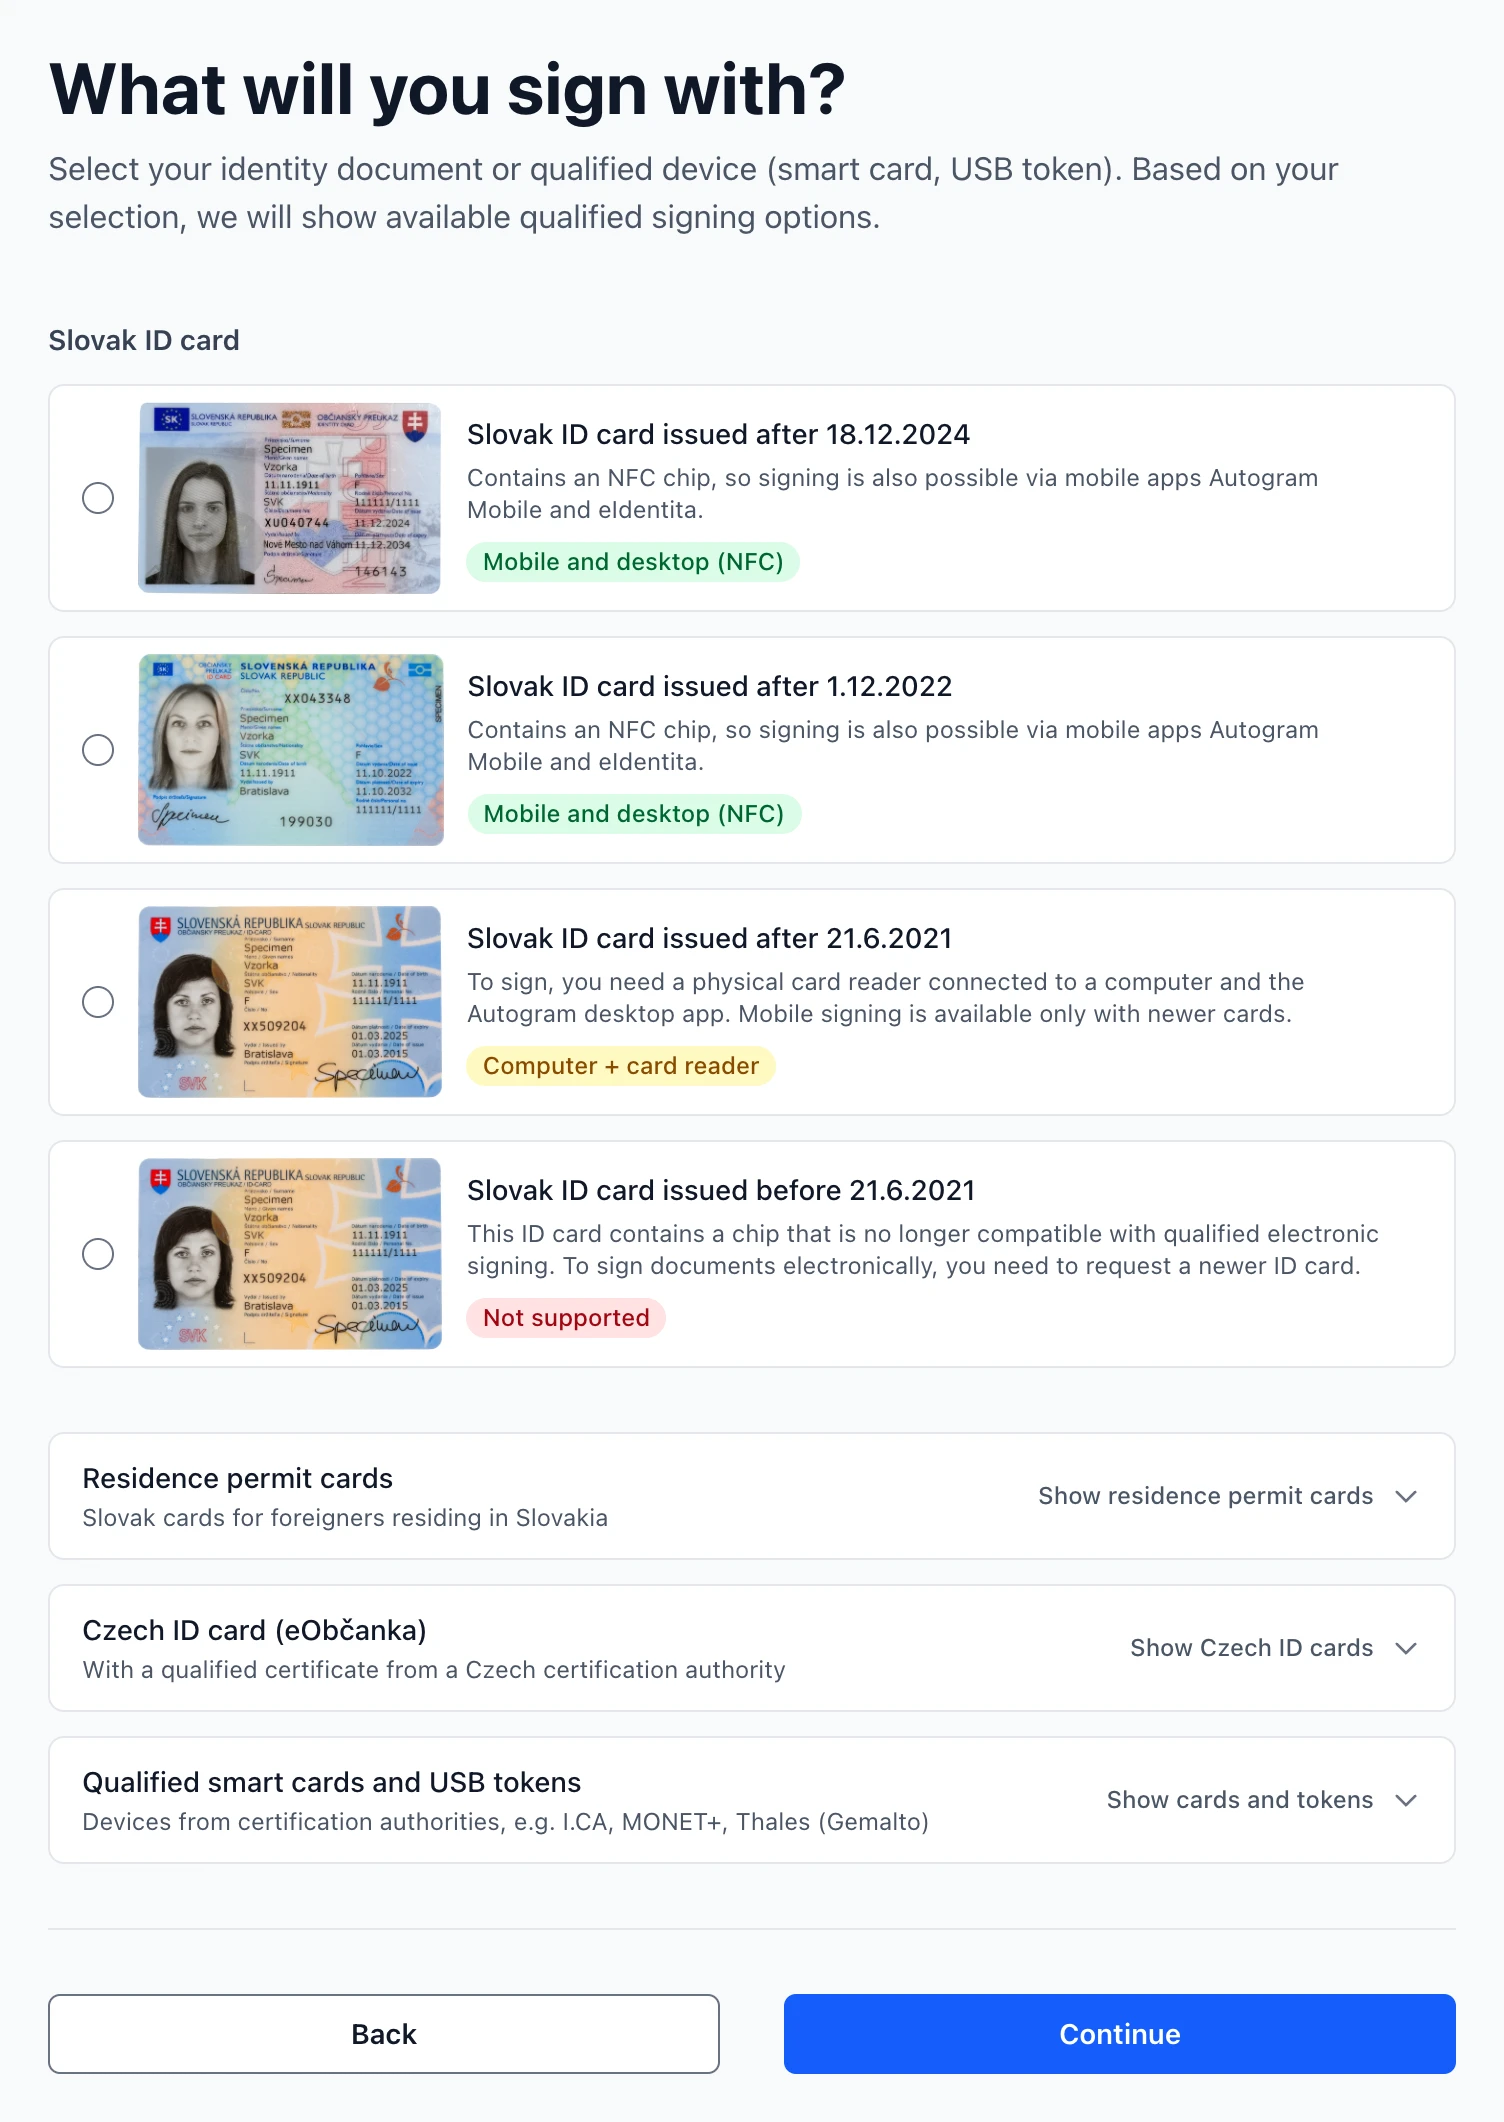
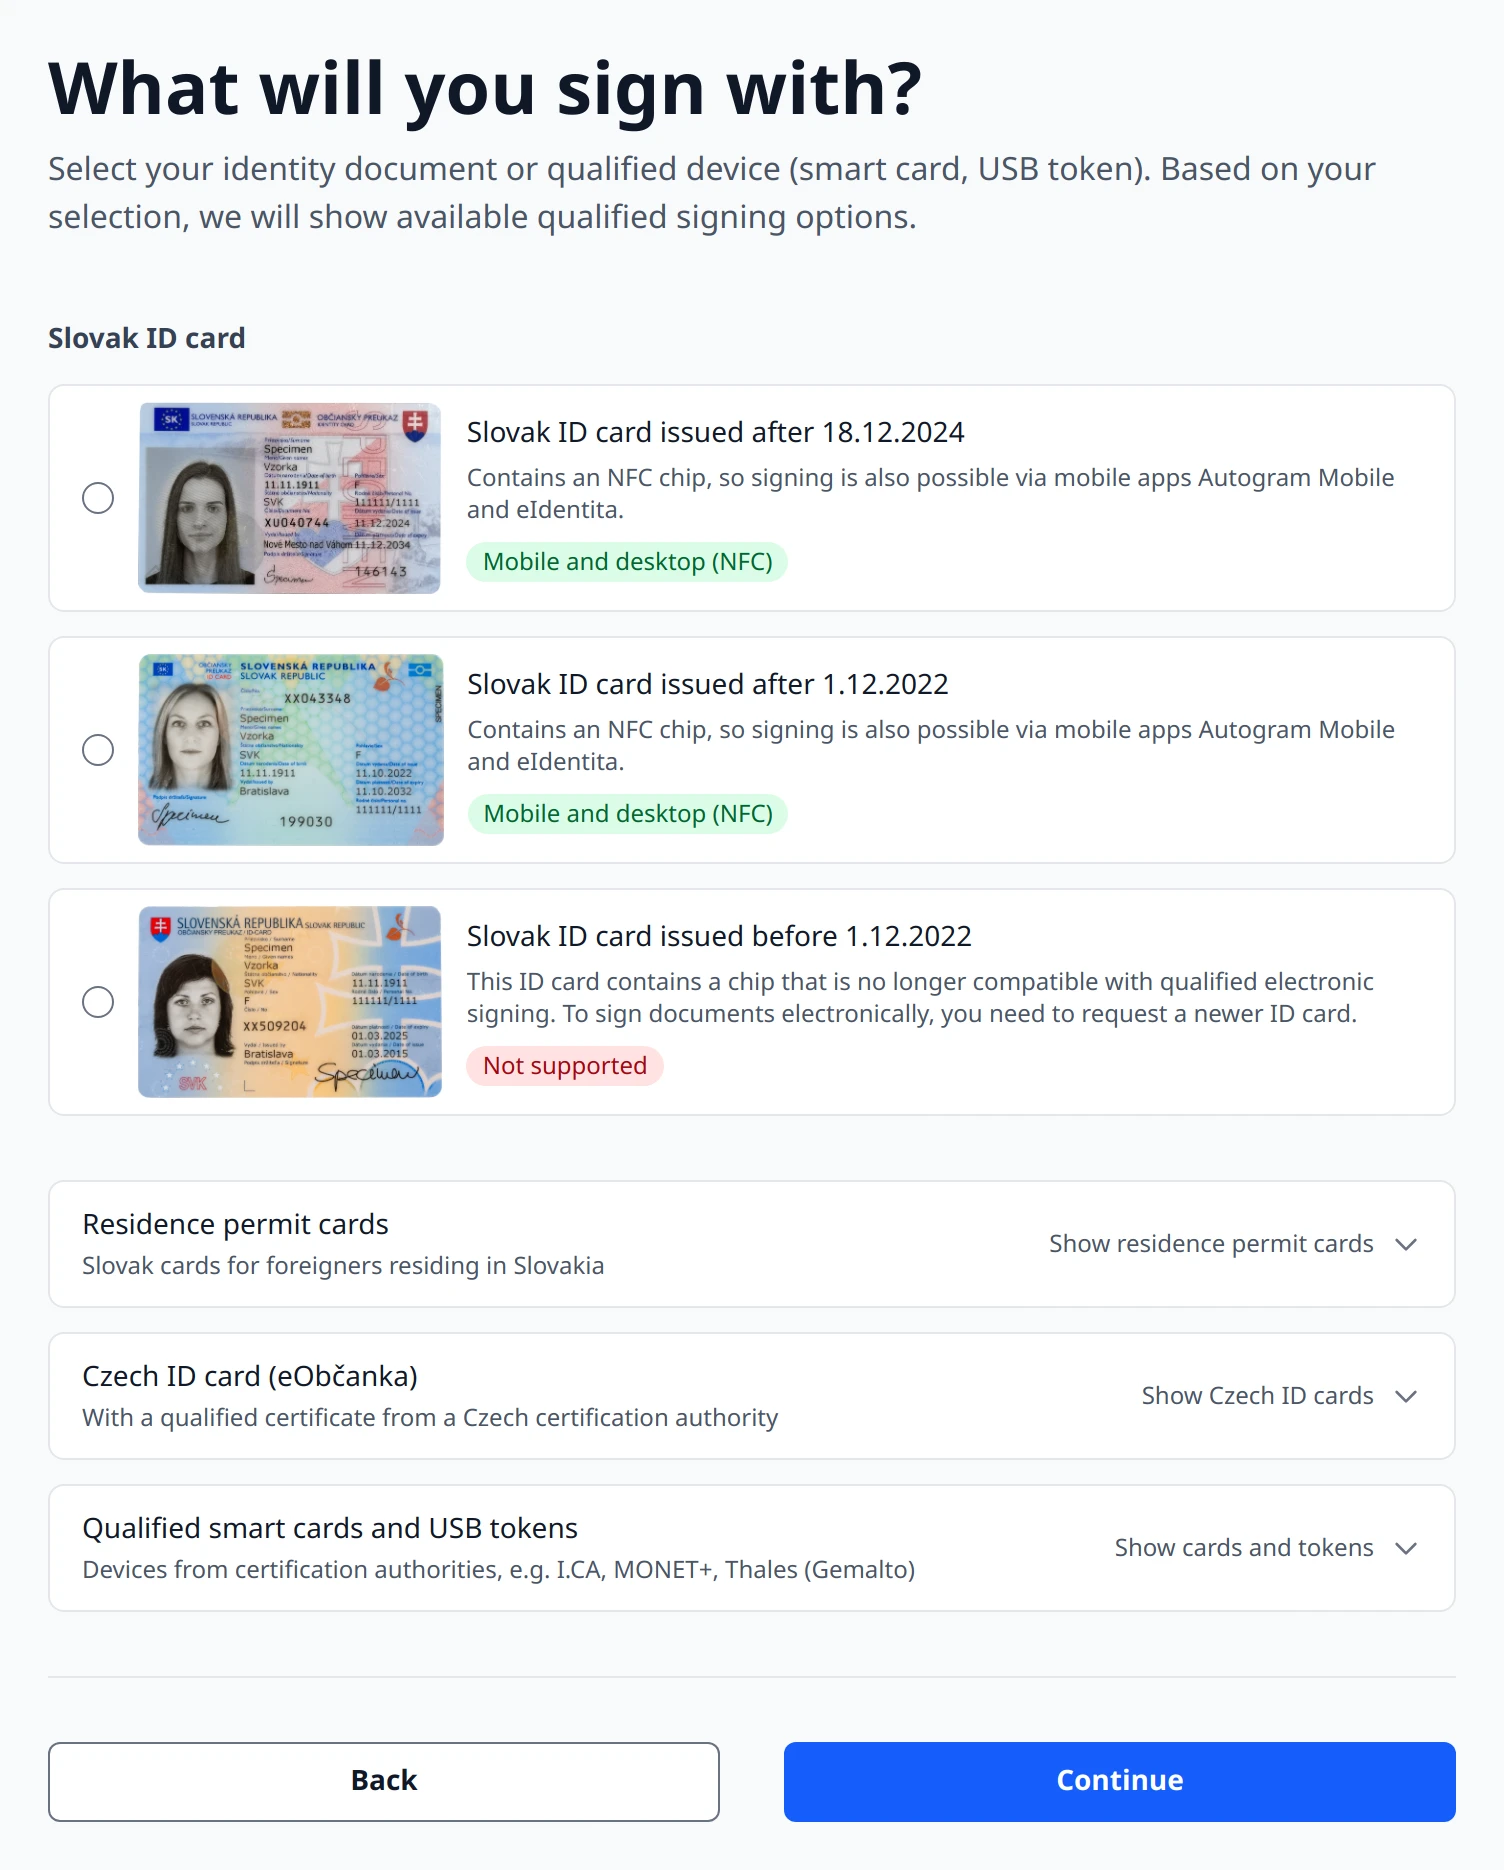
treat slovak id cards and residence permits issued before 1.12.2022 as unable to sign

diff --git a/test/controllers/contracts_controller_test.rb b/test/controllers/contracts_controller_test.rb
@@ -238,7 +238,7 @@ class ContractsControllerTest < ActionDispatch::IntegrationTest
   test "signature apps show incompatible qscd choices disabled without launch links" do
     contract = create_pdf_contract(allowed_methods: [ "qes", "standalone_qes" ])
 
-    get signature_apps_contract_path(contract, qscd: "eid_2021")
+    get signature_apps_contract_path(contract, qscd: "cz_eid_2018")
 
     assert_response :success
     assert_equal %w[autogram podpisuj avm eidentita], signature_app_values
@@ -248,12 +248,12 @@ class ContractsControllerTest < ActionDispatch::IntegrationTest
     assert_select "input[value='eidentita'][disabled]", count: 1
     assert_select "label[tabindex], label[aria-disabled]", count: 0
     reason_id = css_select("input[value='avm'][disabled]").first["aria-describedby"].split.first
-    assert_select "[id='#{reason_id}']", text: /#{Regexp.escape(I18n.t("contracts.signature_apps.unavailable_reasons.unsupported_qscd", qscd: I18n.t("qscd.title.eid_2021")))}/, count: 1
+    assert_select "[id='#{reason_id}']", text: /#{Regexp.escape(I18n.t("contracts.signature_apps.unavailable_reasons.unsupported_qscd", qscd: I18n.t("qscd.title.cz_eid_2018")))}/, count: 1
     assert_select "a[data-signing-app-selector-target='autogramSubmitButton']", count: 1
     assert_select "a[data-signing-app-selector-target='podpisujSubmitButton']", count: 1
     assert_select "a[data-signing-app-selector-target='avmSubmitButton']", count: 0
     assert_select "a[data-signing-app-selector-target='eidentitaSubmitButton']", count: 0
-    assert_includes response.body, I18n.t("contracts.signature_apps.unavailable_reasons.unsupported_qscd", qscd: I18n.t("qscd.title.eid_2021"))
+    assert_includes response.body, I18n.t("contracts.signature_apps.unavailable_reasons.unsupported_qscd", qscd: I18n.t("qscd.title.cz_eid_2018"))
   end
 
   test "signature apps enable all choices compatible with the document" do
@@ -299,7 +299,7 @@ class ContractsControllerTest < ActionDispatch::IntegrationTest
     bundle = Bundle.create!(tenant: tenants(:one), contracts: [ contract ])
     recipient = bundle.recipients.create!(email: "signer@example.com")
 
-    get signature_apps_contract_path(contract, recipient: recipient.uuid, qscd: "eid_2021")
+    get signature_apps_contract_path(contract, recipient: recipient.uuid, qscd: "cz_eid_2018")
 
     assert_response :success
     assert_select "input[data-signing-app-selector-target='appRadio']", count: 3
@@ -364,6 +364,27 @@ class ContractsControllerTest < ActionDispatch::IntegrationTest
 
     get signature_apps_contract_path(contract, qscd: "eid_2013")
     assert_redirected_to contract_onboarding_path(contract, "qscd_check", method: "electronic")
+  end
+
+  test "signature apps send a signer who picked a document issued before december 2022 earlier to pick a usable one" do
+    contract = create_pdf_contract(allowed_methods: [ "qes" ])
+
+    %w[eid_2021 dpb_2020].each do |qscd|
+      get signature_apps_contract_path(contract, qscd: qscd)
+
+      assert_redirected_to contract_onboarding_path(contract, "qscd_check", method: "electronic"), qscd
+    end
+  end
+
+  test "signature apps offer only the computer for a residence permit issued from december 2022 to october 2023" do
+    contract = create_pdf_contract(allowed_methods: [ "qes" ])
+
+    get signature_apps_contract_path(contract, qscd: "dpb_2022")
+
+    assert_response :success
+    assert_select "input[value='autogram']:not([disabled])", count: 1
+    assert_select "input[value='avm'][disabled]", count: 1
+    assert_select "input[value='eidentita'][disabled]", count: 1
   end
 
   test "signature apps keep the chosen document on the way to signing, back and to changing it" do

diff --git a/test/controllers/contracts/onboarding_controller_test.rb b/test/controllers/contracts/onboarding_controller_test.rb
@@ -108,6 +108,42 @@ class Contracts::OnboardingControllerTest < ActionDispatch::IntegrationTest
     assert_select "input[type=radio][name=qscd][checked]", count: 0
   end
 
+  test "qscd check offers slovak id cards issued before december 2022 as one unsupported choice" do
+    contract = create_contract_without_session
+
+    get "/contracts/#{contract.uuid}/onboarding/qscd_check", params: { method: "electronic" }
+
+    assert_select "[role=group][aria-labelledby='qscd_group_sk_eid_title'] input[type=radio][name=qscd]", count: 3
+    assert_select "input[type=radio][name=qscd][value='eid_2021']", count: 0
+    radio = css_select("input[type=radio][value='eid_2013']").first
+    assert_select "[id='#{radio['aria-labelledby']}']", text: /1\.12\.2022/
+    assert_select "[id='#{radio['aria-describedby'].split.last}']", text: /#{Regexp.escape(I18n.t("qscd.badges.unsupported"))}/
+  end
+
+  test "qscd check offers residence permits issued before december 2022 as one unsupported choice" do
+    contract = create_contract_without_session
+
+    get "/contracts/#{contract.uuid}/onboarding/qscd_check", params: { method: "electronic" }
+
+    assert_equal %w[dpb_2023 dpb_2022 dpb_2020], css_select("#qscd_group_sk_dpb_content input[type=radio][name=qscd]").map { |radio| radio["value"] }
+    assert_select "input[type=radio][name=qscd][value='dpb_2014']", count: 0
+    usable = css_select("input[type=radio][value='dpb_2022']").first
+    assert_select "[id='#{usable['aria-labelledby']}']", text: /1\.12\.2022.*17\.10\.2023/
+    assert_select "[id='#{usable['aria-describedby'].split.last}']", text: /#{Regexp.escape(I18n.t("qscd.badges.card_reader"))}/
+    unsupported = css_select("input[type=radio][value='dpb_2020']").first
+    assert_select "[id='#{unsupported['aria-labelledby']}']", text: /pred 1\.12\.2022/
+    assert_select "[id='#{unsupported['aria-describedby'].split.last}']", text: /#{Regexp.escape(I18n.t("qscd.badges.unsupported"))}/
+  end
+
+  test "signer who picked an id card from 2021 or 2022 earlier has nothing preselected" do
+    contract = create_contract_without_session
+
+    get "/contracts/#{contract.uuid}/onboarding/qscd_check", params: { method: "electronic", qscd: "eid_2021" }
+
+    assert_response :success
+    assert_select "input[type=radio][name=qscd][checked]", count: 0
+  end
+
   test "qscd check preselects the current choice and expands its group" do
     contract = create_contract_without_session
 

diff --git a/app/models/user.rb b/app/models/user.rb
@@ -60,18 +60,25 @@ class User < ApplicationRecord
     eid_2013: 1, eid_2021: 2, eid_2022: 3, eid_2024: 4,
     dpb_2014: 5, dpb_2020: 6, dpb_2023: 7,
     cz_eid_2012: 8, cz_eid_2018: 9,
-    ica_securestore: 10, monet_proid: 11, gemalto_idprime: 12, pkcs11_other: 13
+    ica_securestore: 10, monet_proid: 11, gemalto_idprime: 12, pkcs11_other: 13,
+    dpb_2022: 14
   }, prefix: true
 
   # QSCD choices grouped as offered in onboarding (qscd_check), newest first.
+  # Slovak documents issued before 1.12.2022 cannot create qualified signatures any more (the last of them
+  # since 28.9.2026) and are offered as one choice per kind: eid_2013 and dpb_2020. Residence permits issued
+  # from 1.12.2022 to 17.10.2023, which dpb_2020 used to cover as well, are dpb_2022. The choices for a part
+  # of those documents are no longer offered: eid_2021 (ID cards issued from 21.6.2021 to 30.11.2022) and
+  # dpb_2014 (residence permits issued before 10.7.2020). Users, cookies and signing sessions that still hold
+  # a document that cannot sign are asked for the document again.
   QSCD_GROUPS = {
-    sk_eid: [ "eid_2024", "eid_2022", "eid_2021", "eid_2013" ],
-    sk_dpb: [ "dpb_2023", "dpb_2020", "dpb_2014" ],
+    sk_eid: [ "eid_2024", "eid_2022", "eid_2013" ],
+    sk_dpb: [ "dpb_2023", "dpb_2022", "dpb_2020" ],
     cz_eid: [ "cz_eid_2018", "cz_eid_2012" ],
     tokens: [ "ica_securestore", "monet_proid", "gemalto_idprime", "pkcs11_other" ]
   }.freeze
   MOBILE_QSCDS = [ "eid_2022", "eid_2024", "dpb_2023" ].freeze
-  LEGACY_QSCDS = [ "eid_2013", "dpb_2014", "cz_eid_2012" ].freeze
+  LEGACY_QSCDS = [ "eid_2013", "eid_2021", "dpb_2014", "dpb_2020", "cz_eid_2012" ].freeze
 
   validates :locale, inclusion: { in: I18n.available_locales.map(&:to_s) }, allow_nil: true
   validates :agree_to_policies, acceptance: true, on: :create

diff --git a/test/models/user_test.rb b/test/models/user_test.rb
@@ -88,11 +88,12 @@ class UserTest < ActiveSupport::TestCase
     assert_not users(:two).accepted_current_policies?
   end
 
-  test "every qscd except none belongs to exactly one onboarding group" do
+  test "every qscd offered in onboarding belongs to exactly one group" do
     grouped = User::QSCD_GROUPS.values.flatten
 
     assert_equal grouped.uniq, grouped
-    assert_equal User.qscds.keys - [ "none" ], grouped.sort_by { |qscd| User.qscds[qscd] }
+    # documents issued before 1.12.2022 are offered as one choice per kind: eid_2013 and dpb_2020
+    assert_equal (User.qscds.keys - [ "none", "eid_2021", "dpb_2014" ]).sort, grouped.sort
   end
 
   test "qscd group and legacy cards" do
@@ -104,6 +105,12 @@ class UserTest < ActiveSupport::TestCase
 
     assert User.legacy_eid_card?("cz_eid_2012")
     assert User.legacy_eid_card?(:eid_2013)
+    assert User.legacy_eid_card?("eid_2021")
+    assert User.legacy_eid_card?("dpb_2020")
+    assert User.legacy_eid_card?("dpb_2014")
+    assert_not User.legacy_eid_card?("dpb_2022")
+    assert_equal :sk_dpb, User.qscd_group("dpb_2022")
+    assert_not User.mobile_qscd?("dpb_2022")
     assert_not User.legacy_eid_card?("cz_eid_2018")
     assert_not User.legacy_eid_card?("pkcs11_other")
   end

diff --git a/test/system/sdk_embedding_test.rb b/test/system/sdk_embedding_test.rb
@@ -218,13 +218,14 @@ class SdkEmbeddingTest < ApplicationSystemTestCase
       assert_button I18n.t("contracts.signature_apps.continue_to_sign")
 
       click_on I18n.t("actions.change_selection")
-      choose I18n.t("qscd.title.eid_2021"), allow_label_click: true
+      click_on I18n.t("contracts.onboarding.qscd_group.sk_dpb.title")
+      choose I18n.t("qscd.title.dpb_2022"), allow_label_click: true
       click_on I18n.t("contracts.onboarding.qscd_check.continue")
       click_on I18n.t("contracts.onboarding.pin_check.continue")
       click_on I18n.t("contracts.onboarding.certificate_check.continue")
 
-      assert_text I18n.t("qscd.title.eid_2021")
-      assert_text I18n.t("contracts.signature_apps.unavailable_reasons.unsupported_qscd", qscd: I18n.t("qscd.title.eid_2021"))
+      assert_text I18n.t("qscd.title.dpb_2022")
+      assert_text I18n.t("contracts.signature_apps.unavailable_reasons.unsupported_qscd", qscd: I18n.t("qscd.title.dpb_2022"))
       assert_button I18n.t("contracts.signature_apps.continue_to_sign")
     end
   end

diff --git a/app/helpers/qscd_helper.rb b/app/helpers/qscd_helper.rb
@@ -1,5 +1,7 @@
 module QscdHelper
   QSCD_IMAGES = {
+    "eid_2021" => "qscd/eid_2013.png",
+    "dpb_2022" => "qscd/dpb_2020.png",
     "cz_eid_2012" => "qscd/cz_eid_2012.jpg",
     "cz_eid_2018" => "qscd/cz_eid_2018.jpg",
     "ica_securestore" => "qscd/smart_card_or_token.svg",
@@ -11,11 +13,10 @@ module QscdHelper
   QSCD_BADGES = {
     "eid_2024" => %i[mobile],
     "eid_2022" => %i[mobile],
-    "eid_2021" => %i[card_reader],
     "eid_2013" => %i[unsupported],
     "dpb_2023" => %i[mobile],
-    "dpb_2020" => %i[card_reader],
-    "dpb_2014" => %i[unsupported],
+    "dpb_2022" => %i[card_reader],
+    "dpb_2020" => %i[unsupported],
     "cz_eid_2018" => %i[card_reader certificate],
     "cz_eid_2012" => %i[unsupported],
     "ica_securestore" => %i[driver],
